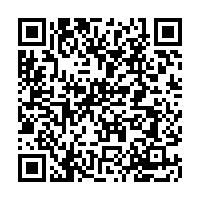
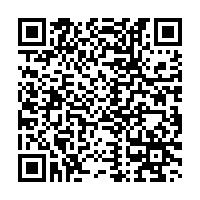
添加扫码功能

Changed region(s): [[0.09, 0.09, 0.93, 0.93]]

diff --git a/src/com/tnx/controller/TestController.java b/src/com/tnx/controller/TestController.java
@@ -11,7 +11,7 @@ import com.tnx.service.PayService;
 import com.tnx.service.UserService;
 import com.tnx.utils.Constants;
 import com.tnx.utils.QRCode.QRCode;
-import com.tnx.utils.SystemContext;
+
 import org.springframework.beans.factory.annotation.Autowired;
 import org.springframework.web.bind.annotation.*;
 
@@ -132,6 +132,11 @@ public class TestController {
     }
 
 
+    /**
+     * 查看订单的二维码
+     * @param orderId
+     * @return
+     */
     @RequestMapping(value = "/uOrderDetail",method = RequestMethod.GET)
     @ResponseBody
     public String uOrderDetail(String orderId){
@@ -157,5 +162,30 @@ public class TestController {
             js.put(Constants.ORDER_QRCODE, "error");
         }
         return js.toJSONString();
+    }
+
+    /**
+     * 扫码完成支付
+     * @param scanString
+     * @return
+     */
+    @RequestMapping(value = "/scanQRCode",method = {RequestMethod.GET,RequestMethod.POST})
+    @ResponseBody
+    public String scanQRCode(String scanString){
+        System.out.println(scanString);
+        Object parse = JSONObject.parse(scanString);
+        System.out.println(parse);
+        JSONObject js = (JSONObject) parse;
+        System.out.println(js.get("pay_orderid"));
+        Integer id = Integer.valueOf(js.get("pay_orderid").toString());
+        ItemOrder load = itemOrderService.load(id);
+        if(load != null){
+            ItemOrder itemOrder = new ItemOrder();
+            itemOrder.setId(id);
+            itemOrder.setStatus(5);
+            itemOrderService.update(itemOrder);
+            return "fail";
+        }
+        return "success";
     }
 }

diff --git a/src/com/tnx/utils/QRCode/TestQRCode.java b/src/com/tnx/utils/QRCode/TestQRCode.java
@@ -1,5 +1,7 @@
 package com.tnx.utils.QRCode;
 
+import com.alibaba.fastjson.JSON;
+import com.alibaba.fastjson.JSONObject;
 import com.google.zxing.WriterException;
 import com.tnx.po.Pay;
 import com.tnx.service.PayService;
@@ -17,18 +19,24 @@ import java.io.IOException;
  **/
 public class TestQRCode {
     public static void main(String[] args) {
+//
+//        QRCode qrCode = new QRCode();
+//        try {
+//            Pay pay = new Pay();
+//            pay.setPaysn("0001");
+//            pay.setTotalAmount("404");
+//            qrCode.geneQRCode(pay, Constants.URL_HEADER_QRCODE);
+//            System.out.println("生成二维码成功");
+//        } catch (WriterException e) {
+//            e.printStackTrace();
+//        } catch (IOException e) {
+//            e.printStackTrace();
+//        }
 
-        QRCode qrCode = new QRCode();
-        try {
-            Pay pay = new Pay();
-            pay.setPaysn("0001");
-            pay.setTotalAmount("404");
-            qrCode.geneQRCode(pay, Constants.URL_HEADER_QRCODE);
-            System.out.println("生成二维码成功");
-        } catch (WriterException e) {
-            e.printStackTrace();
-        } catch (IOException e) {
-            e.printStackTrace();
-        }
+        String s = "{\"pay_price\":\"100.00\",\"pay_info\":\"垫子1,\",\"pay_title\":\"垫子1,\",\"pay_orderid\":50,\"pay_sn\":\"2021050322001438720501686146\"}";
+        Object parse = JSONObject.parse(s);
+        System.out.println(parse);
+        JSONObject js = (JSONObject) parse;
+        System.out.println(Integer.valueOf(js.get("pay_orderid").toString()));
     }
 }

diff --git a/src/com/tnx/utils/QRCode/QRCode.java b/src/com/tnx/utils/QRCode/QRCode.java
@@ -33,7 +33,7 @@ public class QRCode {
         jsonObject.put("pay_info", pay.getInfo());
         jsonObject.put("pay_title", pay.getTitle());
         jsonObject.put("pay_price", pay.getTotalAmount());
-
+        jsonObject.put("pay_orderid",pay.getItemOrderId());
 //        3. json对象转换为json字符串
         String s = jsonObject.toString();
 //        创建一个矩阵对象
@@ -66,4 +66,7 @@ public class QRCode {
 
         return returnFile;
     }
+
+
+
 }
